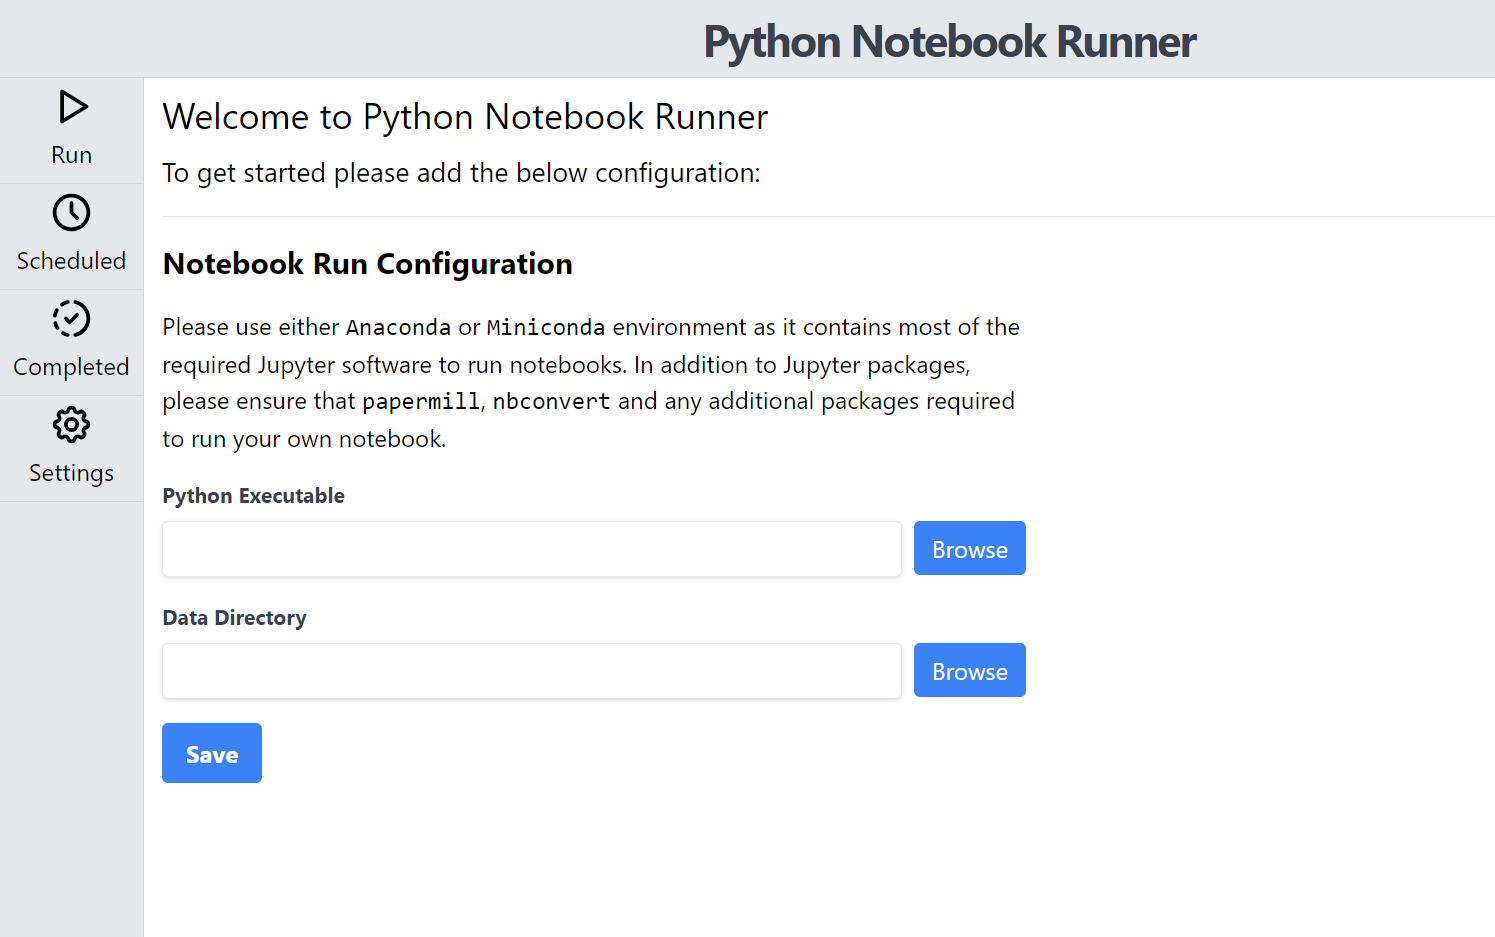
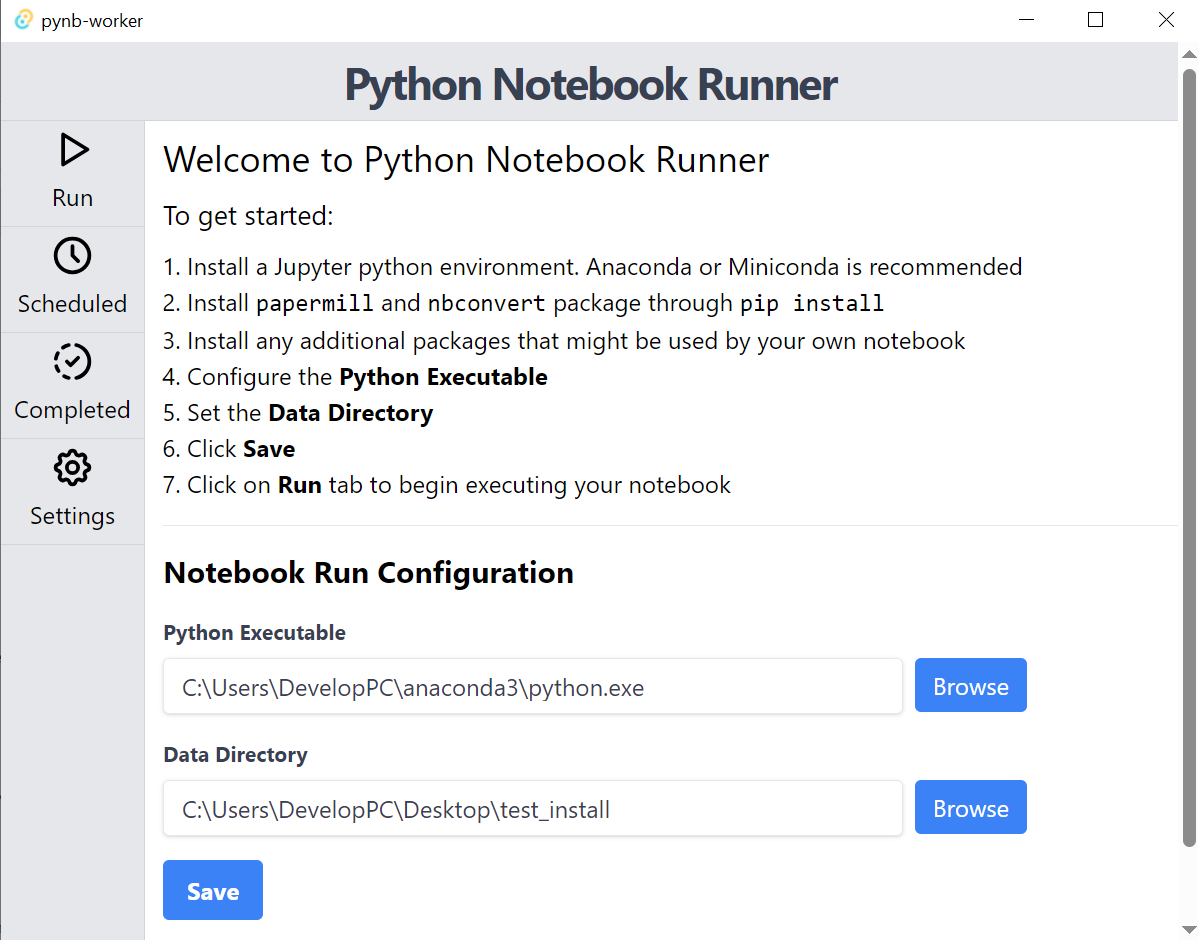
Update Landing page and fix README

diff --git a/src/Landing.tsx b/src/Landing.tsx
@@ -23,7 +23,16 @@ const Landing: Component<{}> = () => {
             </Show>
 
             <h1 class="text-2xl mb-2">Welcome to Python Notebook Runner</h1>
-            <h1 class="text-lg mb-2">To get started please add the below configuration: </h1>
+            <h1 class="text-lg mb-2">To get started:</h1>
+            <ol class="list-decimal ml-4">
+                <li>Install a Jupyter python environment. Anaconda or Miniconda is recommended</li>
+                <li>Install <code>papermill</code> and <code>nbconvert</code> package through <code>pip install</code></li>
+                <li>Install any additional packages that might be used by your own notebook</li>
+                <li>Configure the <b>Python Executable</b></li>
+                <li>Set the <b>Data Directory</b></li>
+                <li>Click <b>Save</b></li>
+                <li>Click on <b>Run</b> tab to begin executing your notebook </li>
+            </ol>
             <hr class="my-4" />
 
             <Settings />

diff --git a/src/Settings.tsx b/src/Settings.tsx
@@ -54,8 +54,6 @@ const Settings: Component<{}> = () => {
 
                     <h1 class="text-xl mb-4 font-bold">Notebook Run Configuration</h1>
 
-                    <p class="text-md mb-4">Please use either <code>Anaconda</code> or <code>Miniconda</code> environment as it contains most of the required Jupyter packages to run notebooks. In addition to the required Jupyter packages, please also install <code>papermill</code>, <code>nbconvert</code> and any additional packages required to run your own notebook.</p>
-
                     <div class="mb-1">
                         <label class="block text-gray-700 text-sm font-bold mb-2" for="username">
                             Python Executable

diff --git a/README.md b/README.md
@@ -8,7 +8,7 @@
 A [Tauri](https://tauri.app) based desktop application which allows a user to run Python notebook on their local machine in the background with user's already available python setup.
 
 ## Features:
-- Choose either **One-off** or **Schedule** mode
+- Choose either **One-off** or **Scheduled** mode
   - **One-Off**: Run a notebook in the background job
   - **Scheduled**: Run a notebook in the background job using a schedule specified by cron string
 - View and cancel **Scheduled** notebook jobs
@@ -63,7 +63,7 @@ The application requires the following configuration before you are able to run 
 
 - Only tested on Windows Platform
 - No ability to clean up of old job data
-- No database migration logic
+- All scheduled jobs become inactive on exit
 
 ## License
 
